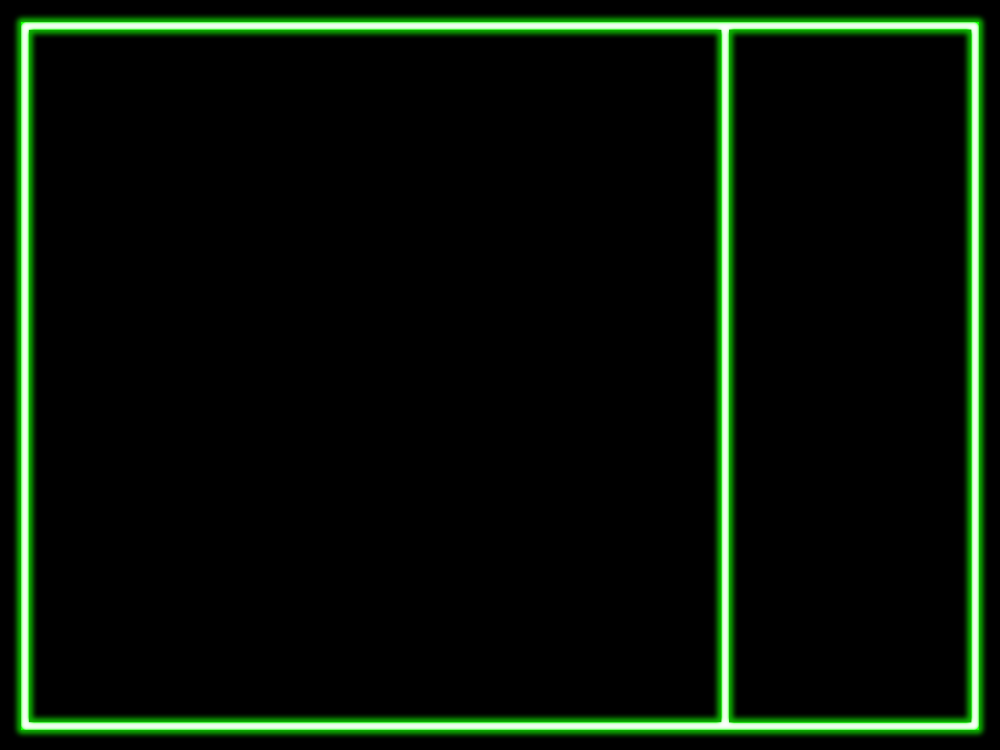
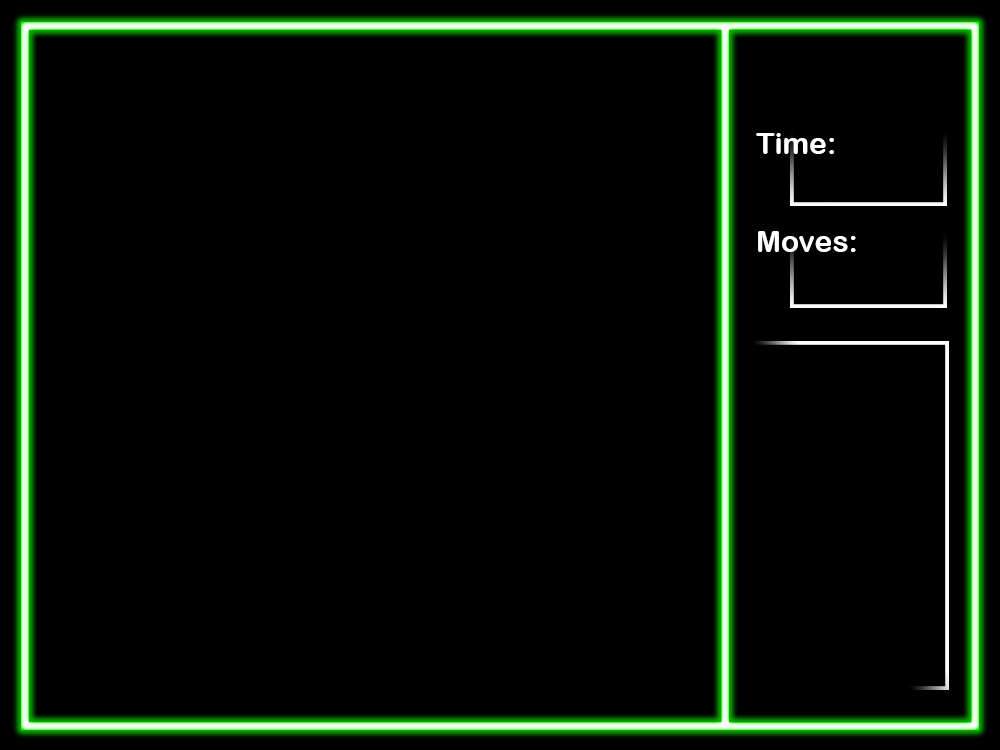
Đổi img

Changed region(s): [[0.744, 0.3067, 0.961, 0.92], [0.744, 0.184, 0.961, 0.276]]

diff --git a/src/view/Game.java b/src/view/Game.java
@@ -16,7 +16,7 @@ public class Game extends JPanel{
 	private BoardGame board_game;
 	private JButton jb_mainmenu;
 	private JButton jb_pause;
-	private JButton jb_newgame;
+	private OnGameButton jb_newgame;
 	private SoundButton jb_sound;
 	public Game(int w, int h) {
 		setBounds(100, 100, 800, 600);
@@ -27,7 +27,7 @@ public class Game extends JPanel{
 		board_game.setBounds(60,60,480,480);
 		this.add(board_game);
 		
-		jb_newgame = new JButton("New Game");
+		jb_newgame = new OnGameButton("New Game");
 		jb_newgame.setBounds(605, 290, 150, 50);
 		this.add(jb_newgame);
 		
@@ -113,7 +113,7 @@ public class Game extends JPanel{
 	public JButton getJb_newgame() {
 		return jb_newgame;
 	}
-	public void setJb_newgame(JButton jb_newgame) {
+	public void setJb_newgame(OnGameButton jb_newgame) {
 		this.jb_newgame = jb_newgame;
 	}
 	public JButton getJb_sound() {

diff --git a/src/view/BoardGame.java b/src/view/BoardGame.java
@@ -6,17 +6,23 @@ import java.awt.GridLayout;
 import java.util.Random;
 
 import javax.swing.JButton;
+import javax.swing.JLabel;
 import javax.swing.JOptionPane;
 import javax.swing.JPanel;
+import javax.swing.Timer;
 
 import controller.PuzzleListener;
 
 public class BoardGame extends JPanel{
 	private JBlock block[][];
 	private int rule[][];
-	
-
+	private Timer count_time;
+	private JLabel time;
 	public BoardGame(int w, int h) {
+		// Bộ đếm
+		time = new JLabel("000");
+//		count_time = new 
+		
 		int count = 1;
 		rule = new int[w][h];
 		block = new JBlock[w][h];

diff --git a/src/view/OnGameButton.java b/src/view/OnGameButton.java
@@ -26,7 +26,7 @@ public class OnGameButton extends JButton {
 		
 		
 			this.light = false;
-			this.state = state;
+			this.state = s;
 			try {
 				mainmenu_button = ImageIO.read(new File("src/resources/images/mainmenu_button.png"));
 				mainmenu_button_light = ImageIO.read(new File("src/resources/images/mainmenu_button_light.png"));
@@ -41,7 +41,7 @@ public class OnGameButton extends JButton {
 			} catch (IOException e) {
 				e.printStackTrace();
 			}
-			setPreferredSize(new Dimension(100,40));
+			setPreferredSize(new Dimension(100,50));
 		}
 	
 	
